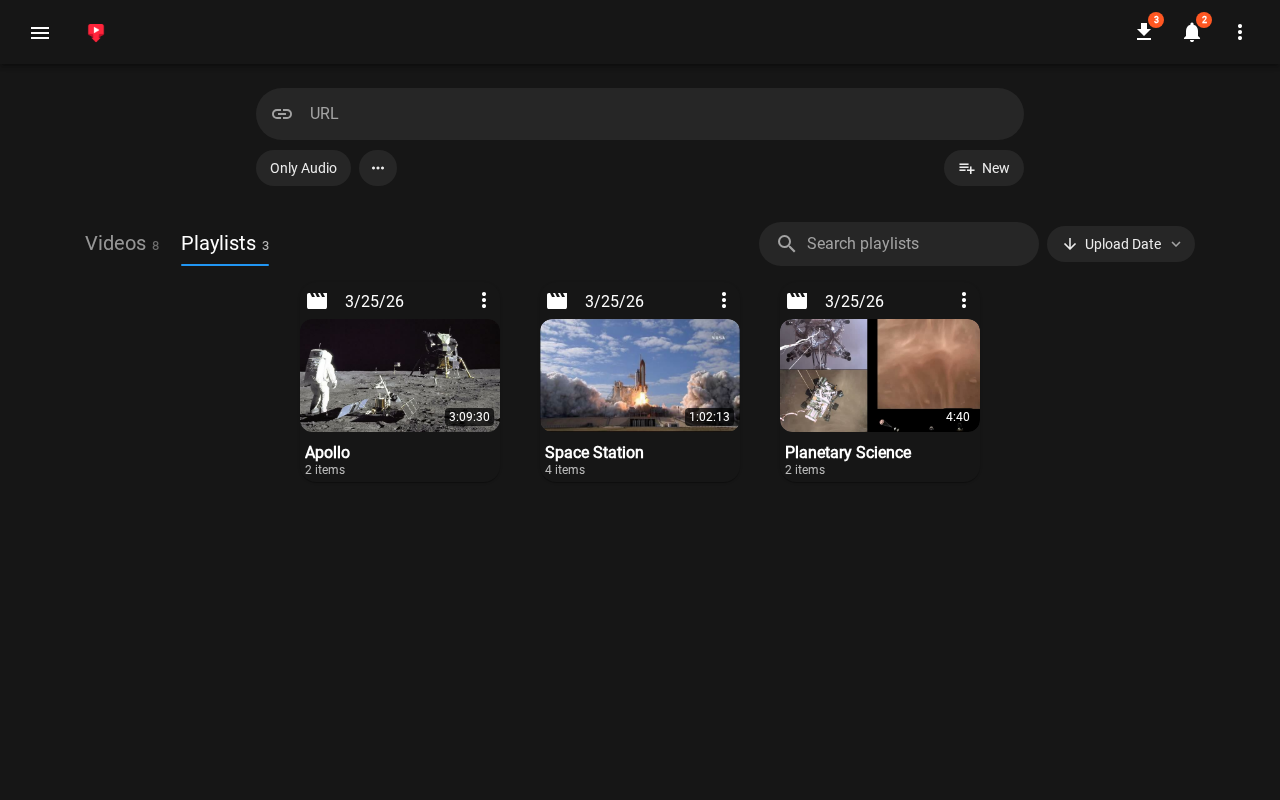
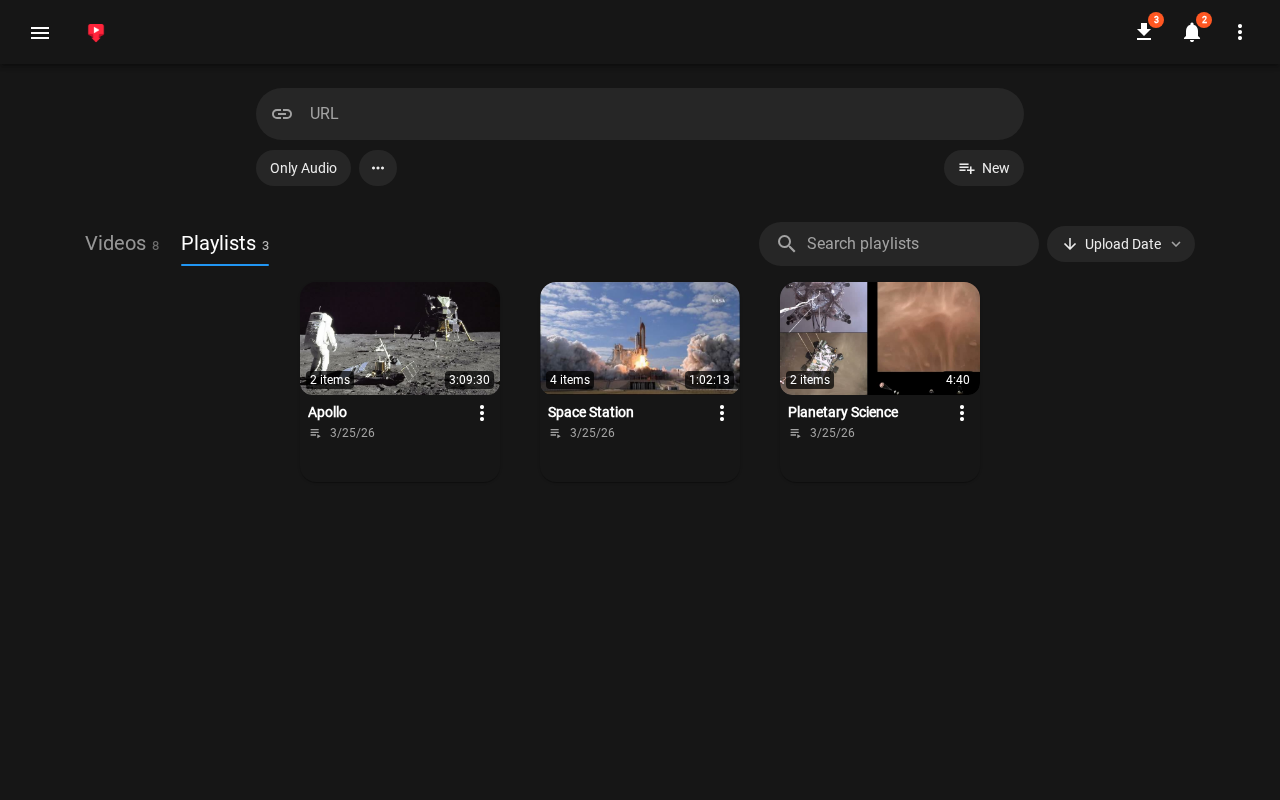
feat(ui): give playlist cards the library's card layout
Playlist cards were the last to keep the date header above the
thumbnail. They now have their details below it like every file card:
the title on two lines, then a footer with a playlist icon and the date
the playlist was made, or "Auto-generated" for a category.

The item count moves out of the text into a badge on the thumbnail's
bottom-left corner, opposite the duration. It fits at every card size,
so small cards show it too, and the title no longer gives up a line
to it. A playlist without a thumbnail shows a playlist icon with the
count still in its corner.

Nothing uses the header layout any more, so it and its styles are
gone. Card heights are unchanged. The gallery's Playlists screenshot is
regenerated.

Changed region(s): [[0.2188, 0.3438, 0.7812, 0.5938]]

diff --git a/src/app/components/unified-file-card/unified-file-card.component.spec.ts b/src/app/components/unified-file-card/unified-file-card.component.spec.ts
@@ -195,7 +195,6 @@ describe('UnifiedFileCardComponent', () => {
 
     expect(component.playlistItemCount).toBeNull();
     expect(component.playlistItemCountLabel).toBeNull();
-    expect(component.showPlaylistItemCount).toBe(false);
   });
 
   it('should not count a card that is not a playlist', () => {
@@ -206,39 +205,35 @@ describe('UnifiedFileCardComponent', () => {
     } as any;
 
     expect(component.playlistItemCount).toBeNull();
-    expect(component.showPlaylistItemCount).toBe(false);
   });
 
-  it('should leave the count off a small card, which has no room for it', () => {
-    component.is_playlist = true;
-    component.card_size = 'small';
-    component.file_obj = {
-      name: 'Example playlist',
-      uids: ['one', 'two']
-    } as any;
-
-    expect(component.playlistItemCountLabel).toBe('2 items');
-    expect(component.showPlaylistItemCount).toBe(false);
-  });
-
-  it('should render the count under the playlist title', () => {
+  it.each(['small', 'medium', 'large'])('should badge the count on a %s playlist thumbnail, opposite the duration', card_size => {
     component.loading = false;
     component.is_playlist = true;
+    component.card_size = card_size;
     component.file_obj = {
       name: 'Example playlist',
-      duration: 0,
+      thumbnailURL: 'https://example.com/thumbnail.jpg',
+      duration: 90,
       registered: Date.now(),
       uids: ['one', 'two', 'three']
     } as any;
     fixture.detectChanges();
 
-    const count_element = fixture.debugElement.query(By.css('.playlist-item-count'));
-    expect(count_element).not.toBeNull();
-    expect(count_element.nativeElement.textContent.trim()).toBe('3 items');
+    const badges = fixture.debugElement.query(By.css('.img-div')).queryAll(By.css('.item-count, .duration-time'));
+    expect(badges.map(badge => badge.nativeElement.className)).toEqual(['item-count', 'duration-time']);
+    expect(badges[0].nativeElement.textContent.trim()).toBe('3 items');
+  });
 
-    // The title gives up its second line to the count, so the block stays the same height.
-    expect(fixture.debugElement.query(By.css('.playlist-text .max-one-line'))).not.toBeNull();
-    expect(fixture.debugElement.query(By.css('.playlist-text .max-two-lines'))).toBeNull();
+  it('should badge the count on a playlist with no thumbnail', () => {
+    component.loading = false;
+    component.is_playlist = true;
+    component.file_obj = {name: 'Empty playlist', duration: 0, registered: Date.now(), uids: []} as any;
+    fixture.detectChanges();
+
+    const fallback = fixture.debugElement.query(By.css('.thumbnail-fallback'));
+    expect(fallback.query(By.css('mat-icon')).nativeElement.textContent.trim()).toBe('playlist_play');
+    expect(fallback.query(By.css('.item-count')).nativeElement.textContent.trim()).toBe('0 items');
   });
 
   it('should render a file card title without a count', () => {
@@ -252,7 +247,7 @@ describe('UnifiedFileCardComponent', () => {
     } as any;
     fixture.detectChanges();
 
-    expect(fixture.debugElement.query(By.css('.playlist-item-count'))).toBeNull();
+    expect(fixture.debugElement.query(By.css('.item-count'))).toBeNull();
     expect(fixture.debugElement.query(By.css('.max-two-lines'))).not.toBeNull();
   });
 
@@ -346,14 +341,30 @@ describe('UnifiedFileCardComponent', () => {
       expect(fixture.debugElement.query(By.css('.download-time'))).toBeNull();
     });
 
-    it('leaves playlist cards and the list layout unchanged', () => {
+    it('gives a playlist the same layout, with its icon and the date it was made', () => {
       component.is_playlist = true;
       component.loading = false;
-      component.file_obj = {name: 'Playlist', uids: ['f1'], duration: 5, registered: Date.now()};
+      component.file_obj = {name: 'Playlist', uids: ['f1'], duration: 5, registered: Date.UTC(2026, 8, 4, 12)};
       fixture.detectChanges();
-      expect(fixture.debugElement.query(By.css('.download-time'))).not.toBeNull();
-      expect(fixture.debugElement.query(By.css('.file-details'))).toBeNull();
 
+      expect(fixture.debugElement.query(By.css('.file-grid-layout'))).not.toBeNull();
+      expect(fixture.debugElement.query(By.css('.download-time'))).toBeNull();
+      expect(fixture.debugElement.query(By.css('.file-details')).nativeElement.textContent).toContain('Playlist');
+      expect(fixture.debugElement.query(By.css('.file-metadata mat-icon')).nativeElement.textContent.trim()).toBe('playlist_play');
+      expect(fixture.debugElement.query(By.css('.file-metadata span')).nativeElement.textContent.trim()).toBe('9/4/26');
+    });
+
+    it('says an automatic playlist is auto-generated rather than giving it a date', () => {
+      component.is_playlist = true;
+      component.loading = false;
+      component.file_obj = {name: 'Music', auto: true, file_count: 12, duration: 5};
+      fixture.detectChanges();
+
+      expect(fixture.debugElement.query(By.css('.file-metadata span')).nativeElement.textContent.trim()).toBe('Auto-generated');
+      expect(fixture.debugElement.query(By.css('.item-count')).nativeElement.textContent.trim()).toBe('12 items');
+    });
+
+    it('leaves the list layout unchanged', () => {
       component.layout = 'list';
       setUpFileCard({uid: 'f1', title: 'A video', duration: 5, upload_date: '2024-09-18', registered: Date.now()});
       expect(fixture.debugElement.query(By.css('.list-detail')).nativeElement.textContent.trim()).toBe('9/18/24');

diff --git a/src/app/components/unified-file-card/unified-file-card.component.html b/src/app/components/unified-file-card/unified-file-card.component.html
@@ -1,19 +1,4 @@
-<div (mouseenter)="onMouseOver()" (mouseleave)="onMouseOut()" (contextmenu)="onRightClick($event)" style="position: relative;" [style.width]="isListLayout ? '100%' : 'fit-content'" [class.file-grid-layout]="isFileGrid" [attr.data-card-size]="card_size">
-  @if (!isListLayout && !isFileGrid && !loading) {
-    <div class="download-time">
-      <mat-icon class="audio-video-icon">{{(file_obj.type === 'audio' || file_obj.isAudio) ? 'audiotrack' : 'movie'}}</mat-icon>
-      &nbsp;&nbsp;
-      @if (file_obj.auto) {
-        <ng-container i18n="Auto-generated label">Auto-generated</ng-container>
-      }
-      @if (!file_obj.auto) {
-        {{displayedDateValue | date:'shortDate' : displayedDateTimezone : displayedDateLocale}}
-      }
-    </div>
-  }
-  @if (!isListLayout && !isFileGrid && loading) {
-    <div class="download-time" style="width: 75%; margin-top: 5px;"><content-loader [backgroundColor]="theme.ghost_primary" [foregroundColor]="theme.ghost_secondary" viewBox="0 0 250 30"><svg:rect x="0" y="0" rx="3" ry="3" width="250" height="30" /></content-loader></div>
-  }
+<div (mouseenter)="onMouseOver()" (mouseleave)="onMouseOut()" (contextmenu)="onRightClick($event)" style="position: relative;" [style.width]="isListLayout ? '100%' : 'fit-content'" [class.file-grid-layout]="!isListLayout" [attr.data-card-size]="card_size">
   <!-- The context menu trigger must be kept above the "more info" menu -->
   <div style="visibility: hidden; position: fixed"
     [style.left]="contextMenuPosition.x"
@@ -130,6 +115,9 @@
                 <video class="preview-video" autoplay loop muted preload="none" [muted]="true" [ngClass]="{'video-small': card_size === 'small', 'video': card_size === 'medium', 'video-large': card_size === 'large'}" [src]="streamURL">
                 </video>
               }
+              @if (playlistItemCountLabel) {
+                <div class="item-count">{{playlistItemCountLabel}}</div>
+              }
               <div class="duration-time">
                 {{file_length}}
               </div>
@@ -137,9 +125,12 @@
           </div>
         }
 
-        @if (isFileGrid && !loading && !file_obj.thumbnailURL) {
+        @if (!loading && !file_obj.thumbnailURL) {
           <div class="img-div thumbnail-fallback">
-            <mat-icon>{{isAudioFile ? 'audiotrack' : 'movie'}}</mat-icon>
+            <mat-icon>{{is_playlist ? 'playlist_play' : (isAudioFile ? 'audiotrack' : 'movie')}}</mat-icon>
+            @if (playlistItemCountLabel) {
+              <div class="item-count">{{playlistItemCountLabel}}</div>
+            }
           </div>
         }
 
@@ -149,31 +140,26 @@
           </div>
         }
 
-        <div [class.file-details]="isFileGrid">
+        <div class="file-details">
           @if (!loading) {
-            @if (showPlaylistItemCount) {
-              <div class="playlist-text">
-                <span class="max-one-line"><strong>{{file_obj.name}}</strong></span>
-                <span class="playlist-item-count">{{playlistItemCountLabel}}</span>
-              </div>
-            } @else {
-              <span [ngClass]="{'max-two-lines': card_size !== 'small', 'max-one-line': card_size === 'small' }">{{card_size === 'large' && file_obj.uploader ? file_obj.uploader + ' - ' : ''}}<strong>{{!is_playlist ? file_obj.title : file_obj.name}}</strong></span>
-            }
+            <span [ngClass]="{'max-two-lines': card_size !== 'small', 'max-one-line': card_size === 'small' }">{{card_size === 'large' && file_obj.uploader ? file_obj.uploader + ' - ' : ''}}<strong>{{!is_playlist ? file_obj.title : file_obj.name}}</strong></span>
           }
           @if (loading) {
             <span class="title-loading"><content-loader [backgroundColor]="theme.ghost_primary" [foregroundColor]="theme.ghost_secondary" viewBox="0 0 250 30"><svg:rect x="0" y="0" rx="3" ry="3" width="250" height="30" /></content-loader></span>
           }
-          @if (isFileGrid) {
-            @if (loading) {
-              <content-loader class="file-metadata" [backgroundColor]="theme.ghost_primary" [foregroundColor]="theme.ghost_secondary" viewBox="0 0 150 16"><svg:rect x="0" y="0" rx="3" ry="3" width="100" height="14" /></content-loader>
-            } @else {
-              <div class="file-metadata">
-                <mat-icon>{{isAudioFile ? 'audiotrack' : 'movie'}}</mat-icon>
+          @if (loading) {
+            <content-loader class="file-metadata" [backgroundColor]="theme.ghost_primary" [foregroundColor]="theme.ghost_secondary" viewBox="0 0 150 16"><svg:rect x="0" y="0" rx="3" ry="3" width="100" height="14" /></content-loader>
+          } @else {
+            <div class="file-metadata">
+              <mat-icon>{{is_playlist ? 'playlist_play' : (isAudioFile ? 'audiotrack' : 'movie')}}</mat-icon>
+              @if (file_obj.auto) {
+                <span i18n="Auto-generated label">Auto-generated</span>
+              } @else {
                 <span [matTooltip]="displayedDateValue | date:'longDate' : displayedDateTimezone : displayedDateLocale">
                   {{relativeUploadDate ?? (displayedDateValue | date:'shortDate' : displayedDateTimezone : displayedDateLocale)}}
                 </span>
-              </div>
-            }
+              }
+            </div>
           }
         </div>
       </div>

diff --git a/src/app/components/unified-file-card/unified-file-card.component.scss b/src/app/components/unified-file-card/unified-file-card.component.scss
@@ -147,31 +147,10 @@
   position: absolute;
 }
 
-.playlist-text {
-  bottom: 5px;
-  position: absolute;
-  width: calc(100% - 10px);
-}
-
-/* A title anchors itself to the bottom of the card. Inside this block the block does the
-   anchoring instead, so the count can sit on its own line underneath the title.
-   The clamp is set to the one line max-height already allows, so an overlong name ends in
-   an ellipsis rather than being cut off at the edge of the card. */
-.playlist-text .max-one-line {
-  bottom: auto;
-  position: static;
-  -webkit-line-clamp: 1;
-}
-
-.playlist-item-count {
-  display: block;
-  font-size: 0.75em;
-  line-height: 1.2em;
-  opacity: 0.7;
-}
-
-/* The same badge the list layout puts on its thumbnail, so the two layouts read alike. */
-.duration-time {
+/* The same badge the list layout puts on its thumbnail, so the two layouts read alike. A
+   playlist's item count takes the opposite corner. */
+.duration-time,
+.item-count {
   position: absolute;
   bottom: 6px;
   right: 6px;
@@ -185,25 +164,9 @@
   line-height: 16px;
 }
 
-/* This strip is a sibling of the card rather than a child of it, so it covers the top
-   192x24px of the card without carrying the card's click handler. Left hit-testable it
-   swallows every click landing on it, which reads as the card not responding at all. */
-.download-time {
-  position: absolute;
-  top: 1px;
-  left: 5px;
-  z-index: 999;
-  width: calc(100% - 8px);
-  white-space: nowrap;
-  overflow: hidden;
-  display: block;
-  text-overflow: ellipsis;
-  pointer-events: none;
-}
-
-.audio-video-icon {
-  position: relative;
-  top: 6px;
+.item-count {
+  right: auto;
+  left: 6px;
 }
 
 .title-loading {
@@ -212,7 +175,7 @@
   bottom: 1px;
 }
 
-// A file in the grid has its details below the thumbnail rather than in a header above it.
+// A grid card, file or playlist, has its details below the thumbnail.
 // Keep the existing card heights: the virtualized library sizes its rows from them.
 .file-grid-layout {
   --file-thumbnail-height: 112.5px;
@@ -232,6 +195,7 @@
   }
 
   .thumbnail-fallback {
+    position: relative;
     display: flex;
     align-items: center;
     justify-content: center;

diff --git a/src/app/components/unified-file-card/unified-file-card.component.ts b/src/app/components/unified-file-card/unified-file-card.component.ts
@@ -115,11 +115,6 @@ export class UnifiedFileCardComponent implements OnInit {
     return !this.is_playlist && (this.file_obj?.type === 'audio' || !!this.file_obj?.isAudio);
   }
 
-  /** A file in the grid: its details sit under the thumbnail, whatever the library is sorted by. */
-  get isFileGrid(): boolean {
-    return !this.isListLayout && !this.is_playlist;
-  }
-
   /**
    * How long ago the video went up, which only reads right while the library is sorted by it.
    * Under any other sort the card shows the download date as a date: "2 weeks ago" beside a
@@ -180,15 +175,6 @@ export class UnifiedFileCardComponent implements OnInit {
     return item_count === 1
       ? $localize`:Playlist card single item count:1 item`
       : $localize`:Playlist card item count:${item_count}:count: items`;
-  }
-
-  /**
-   * The count needs a line of its own beneath the title, and a small card has no room for
-   * one -- its text block would run up into the thumbnail above it. Where the count does
-   * show, the title gives up its second line to it, so the block stays as tall as before.
-   */
-  get showPlaylistItemCount(): boolean {
-    return this.card_size !== 'small' && this.playlistItemCountLabel !== null;
   }
 
   /**
